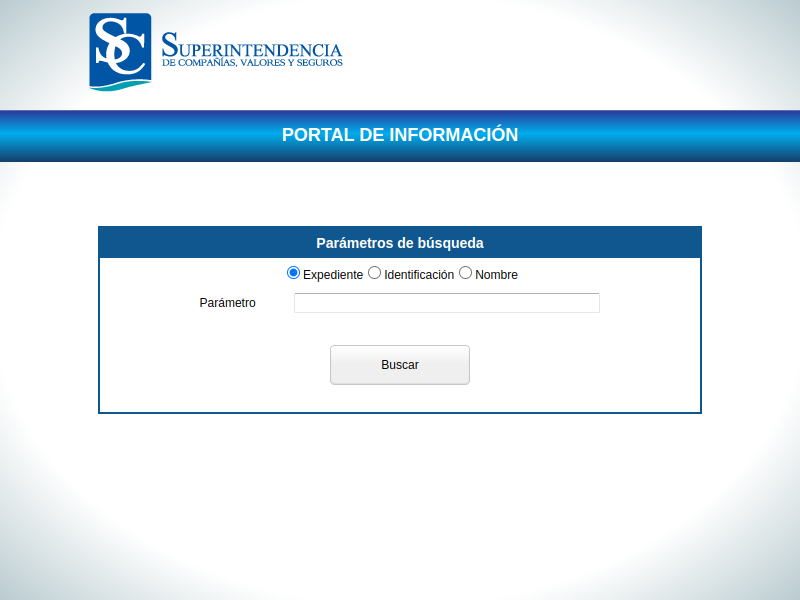
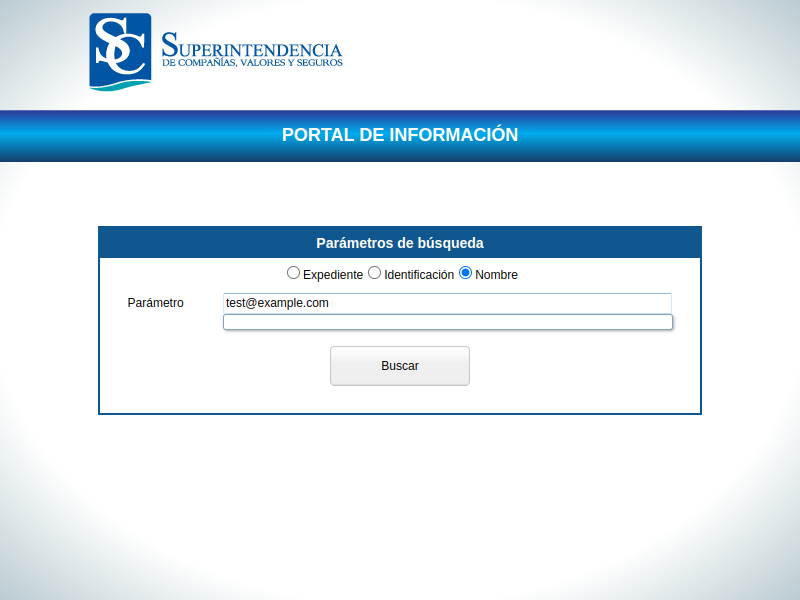
took me a while but managed to clear the text input box

Changed region(s): [[0.25, 0.45, 0.8438, 0.66], [0.1562, 0.48, 0.2188, 0.51], [0.5625, 0.45, 0.5938, 0.48]]

diff --git a/supercias.js b/supercias.js
@@ -1,10 +1,13 @@
+import { PendingXHR } from 'pending-xhr-puppeteer'
 import { 
+		getText,
 		permutator,
 		read_json,
 		write_json,
 		shuffle,
 		save_cookies,
-		read_cookies 
+		read_cookies,
+		waitForNetworkIdle,
 } from './utils.js'
 import spanish_alphbet from './resources/spanish_alphabet.js'
 
@@ -31,6 +34,7 @@ const scrap_company_names = async page => {
 		}
 		/* ---- start scraping proccess ---- */
 		// go to target url
+		const pendingXHR = new PendingXHR(page);
 		await page.goto(target_url, {
 				waitUntil: 'networkidle0', // wait until the page is fully loaded
 		});
@@ -54,15 +58,31 @@ const scrap_company_names = async page => {
 		});
 		*/
 		// get the radion name
-		const name_radio = await page.$X("//label[text()='Nombre']/../input");
-		if (name_radio) { // click on the name radio
+		const name_radio = (await page.$x("//label[text()='Nombre']/../input"))[0];
+		if (name_radio)  // click on the name radio
 				await name_radio.click();
-		}
+		await page.waitFor(1000)
 		// get the main text input
-		const text_input = await page.$X("//span[text()='Parámetro']/../input");
+		const text_input = (await page.$x("//span[text()='Parámetro']/../input"))[0];
+		const real_text_input = (await page.$x("//span[text()='Parámetro']/../i/input"))[0];
+		const text_input_ID = await (await real_text_input.getProperty('id')).jsonValue();
+		console.log('input_id:', text_input_ID);
 		// type in search bar 
-		await text_input.type('input[name=pickupAgingComment]', 'test', {delay: 20})
+
+		await text_input.type(permutations.permutations[0], {delay: 100})
+		// wait
+		//await pendingXHR.waitForAllXhrFinished();
+		await waitForNetworkIdle(page, 2000)
 		// take screen shot
+		//await page.evaluate( id => document.getElementById(id).value = "something" , text_input_ID )
+
+		await page.$eval('#'+ text_input_ID, el => {
+				console.log("is this even running?"),
+				el.value = 'test@example.com'
+		});
+
+		await page.waitFor(2000)
+
 		await page.screenshot({                      
 				path: "./screenshot.png",               
 				fullPage: true                           

diff --git a/utils.js b/utils.js
@@ -79,6 +79,35 @@ const shuffle = unshuffled =>
 				.sort((a, b) => a.sort - b.sort)
 				.map(({ value }) => value)
 
+function waitForNetworkIdle(page, timeout, maxInflightRequests = 0) {
+		page.on('request', onRequestStarted);
+		page.on('requestfinished', onRequestFinished);
+		page.on('requestfailed', onRequestFinished);
+		let inflight = 0;
+		let fulfill;
+		let promise = new Promise(x => fulfill = x);
+		let timeoutId = setTimeout(onTimeoutDone, timeout);
+		return promise;
+		function onTimeoutDone() {
+				page.removeListener('request', onRequestStarted);
+				page.removeListener('requestfinished', onRequestFinished);
+				page.removeListener('requestfailed', onRequestFinished);
+				fulfill();
+		}
+		function onRequestStarted() {
+				++inflight;
+				if (inflight > maxInflightRequests)
+						clearTimeout(timeoutId);
+		}
+		function onRequestFinished() {
+				if (inflight === 0)
+						return;
+				--inflight;
+				if (inflight === maxInflightRequests)
+						timeoutId = setTimeout(onTimeoutDone, timeout);
+		}
+}
+
 const permutator = (string, length) => {
 		let permutations = []
 		// Generator object
@@ -185,4 +214,4 @@ const unfoldr = (f, v) => {
 
 
 
-export { getText, permutator, read_json, write_json, save_cookies, read_cookies, shuffle }
+export { getText, permutator, read_json, write_json, save_cookies, read_cookies, shuffle, waitForNetworkIdle }

diff --git a/main.js b/main.js
@@ -20,13 +20,13 @@ async function main () {
 		// get already opned page
 		const page = (await browser.pages())[0];
 		// read the cookies 
-		read_cookies(page)
+		await read_cookies(page)
 		//const proxies = await get_them_proxies(browser);
 		//console.log('proxies', proxies);
 		const names = await scrap_company_names(page);
 		console.log('company names', names);
 		// save the cookies
-		save_cookies(page)
+		await save_cookies(page)
 		// let's close the browser
 		console.log('closing browser...')
 		await browser.close();
